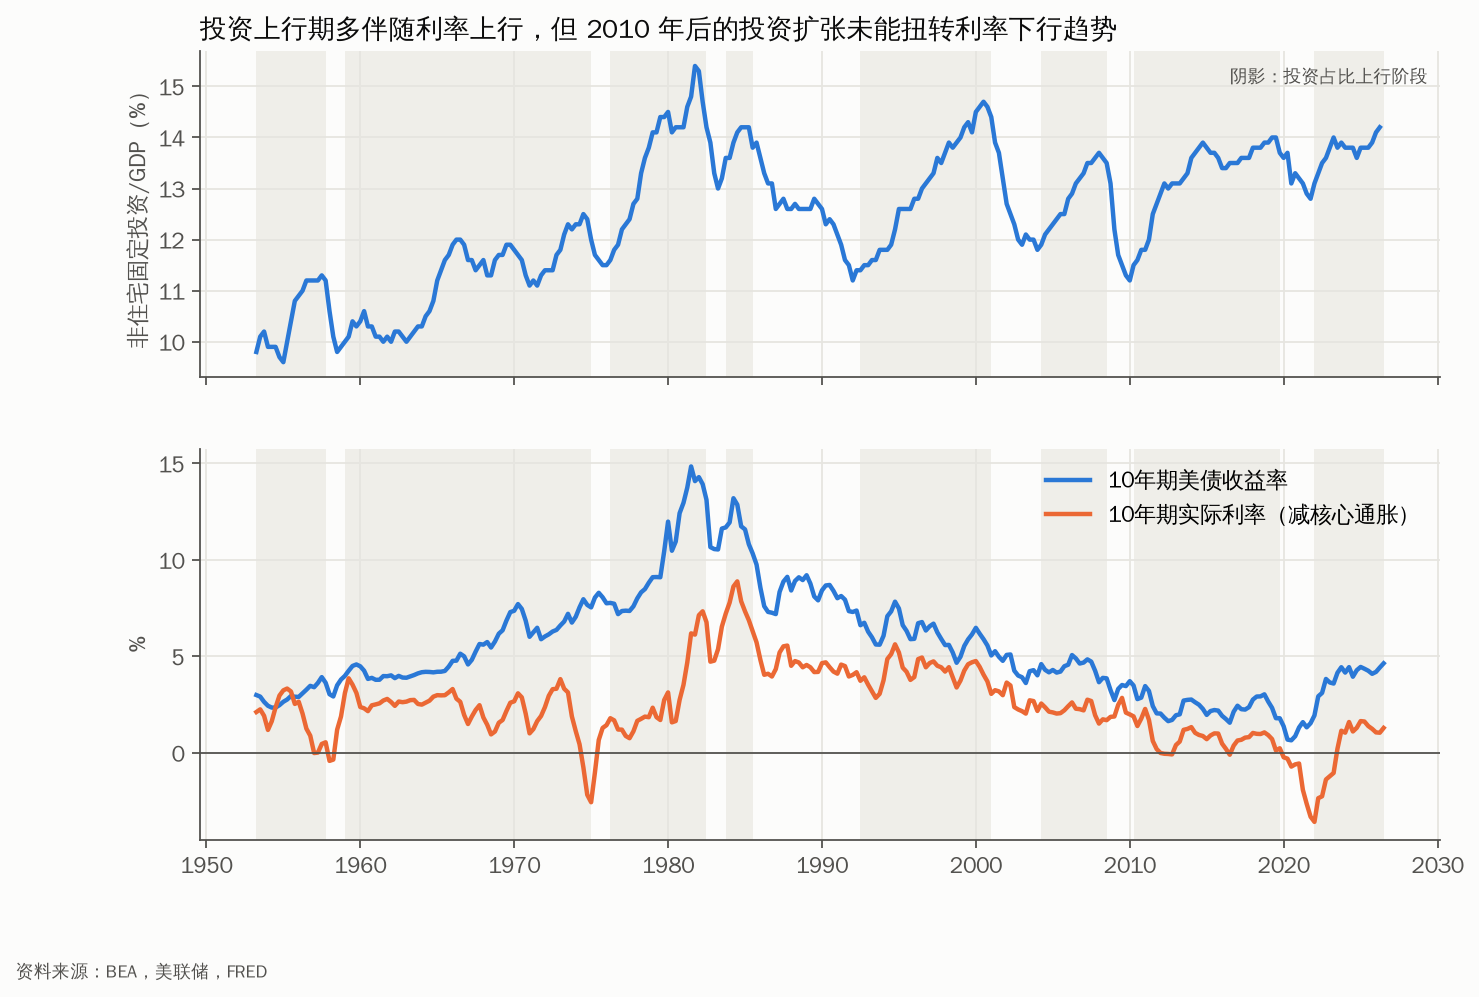
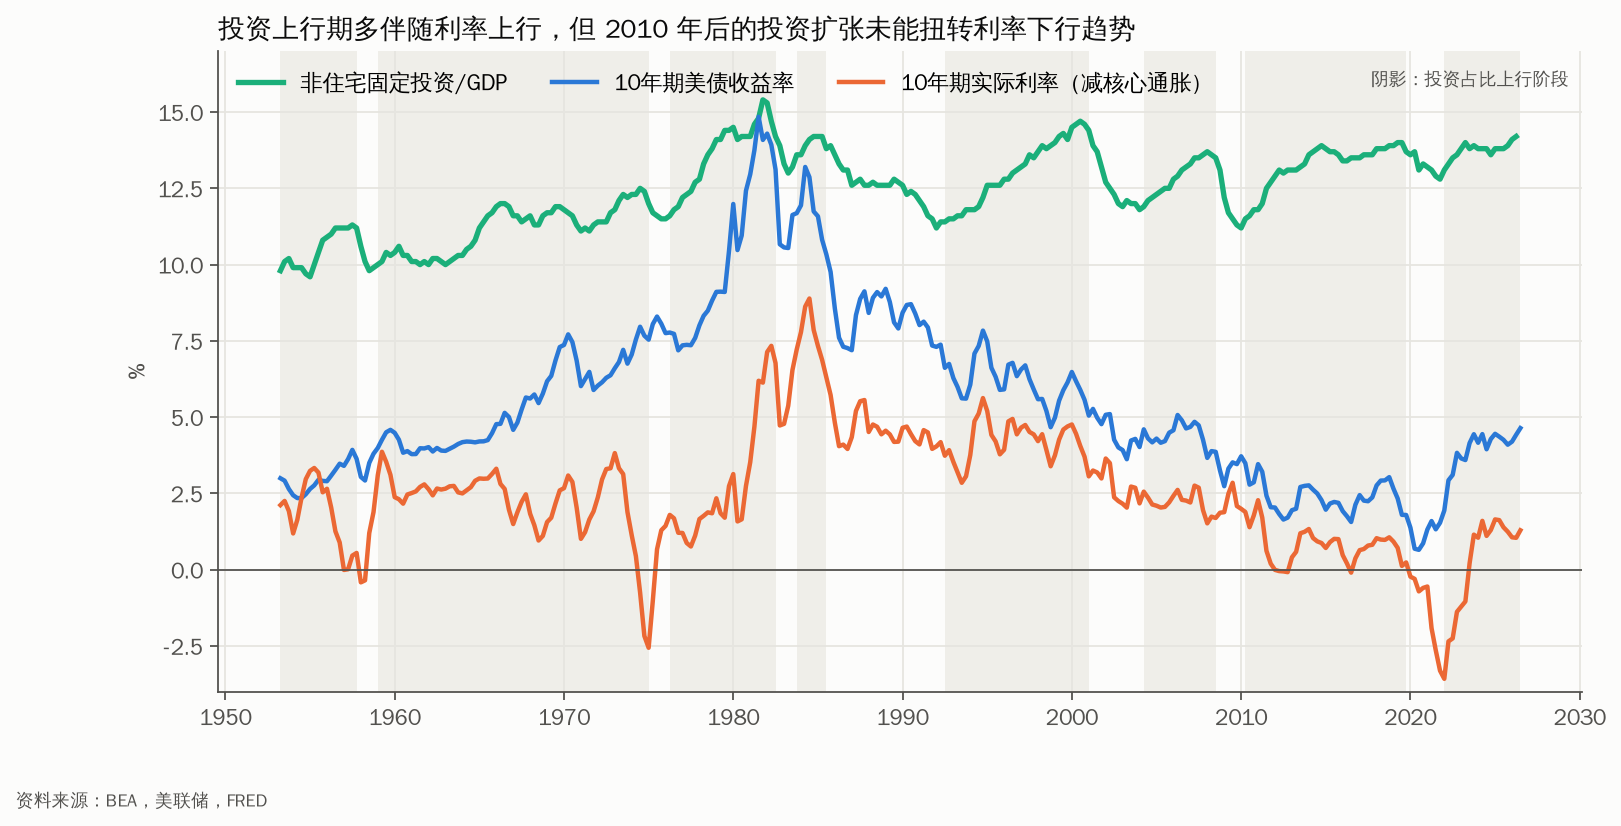
Combine investment share and yields into a single long-run chart
Claude-Session: https://claude.ai/code/session_01NArB8YBeAL7dcKm6staSdG

diff --git a/scripts/analysis_investment.py b/scripts/analysis_investment.py
@@ -56,21 +56,21 @@ ep = pd.DataFrame(rows).set_index("阶段")
 lines += ["## 1. 投资上行周期（非住宅投资/GDP 四季度均值，拐点阈值 0.8 个点）\n",
           "ACM 分解在 1961Q3 之前无数据，首段起点取 1961Q3。\n", ep.to_markdown(floatfmt=(".0f", ".1f", ".0f", ".0f", ".0f", ".0f", ".0f")), "\n"]
 
-# 图1：投资占比与利率（上下两栏，同一时间轴）
-fig, (a1, a2) = plt.subplots(2, 1, figsize=(10, 6.4), sharex=True, gridspec_kw={"height_ratios": [1, 1.2]})
+# 图1：投资占比与利率放在同一张图（三者单位均为 %，共用一根纵轴）
+fig, ax = plt.subplots(figsize=(11, 5.2))
 for a, b in ups:
-    for ax in (a1, a2):
-        ax.axvspan(a.to_timestamp(), b.to_timestamp(how="end"), color=SHADE, lw=0, zorder=0)
+    ax.axvspan(a.to_timestamp(), b.to_timestamp(how="end"), color=SHADE, lw=0, zorder=0)
 qq = q.loc["1953Q2":]
-a1.plot(to_ts(qq.index), qq["nonres_share"], color=C1)
-a1.set_title("投资上行期多伴随利率上行，但 2010 年后的投资扩张未能扭转利率下行趋势")
-a1.set_ylabel("非住宅固定投资/GDP（%）")
-a2.plot(to_ts(qq.index), qq["GS10"], color=C1, label="10年期美债收益率")
-a2.plot(to_ts(qq.index), qq["real10_ex_post"], color=C2, label="10年期实际利率（减核心通胀）")
-a2.axhline(0, color=INK2, lw=0.8)
-a2.set_ylabel("%")
-a2.legend(loc="upper right")
-a1.text(0.99, 0.95, "阴影：投资占比上行阶段", transform=a1.transAxes, ha="right", va="top", fontsize=8, color=INK2)
+x = to_ts(qq.index)
+ax.plot(x, qq["nonres_share"], color=C3, lw=2.4, label="非住宅固定投资/GDP")
+ax.plot(x, qq["GS10"], color=C1, label="10年期美债收益率")
+ax.plot(x, qq["real10_ex_post"], color=C2, label="10年期实际利率（减核心通胀）")
+ax.axhline(0, color=INK2, lw=0.8)
+ax.set_ylabel("%")
+ax.set_ylim(-4, 17)
+ax.set_title("投资上行期多伴随利率上行，但 2010 年后的投资扩张未能扭转利率下行趋势")
+ax.legend(loc="upper left", ncol=3)
+ax.text(0.99, 0.97, "阴影：投资占比上行阶段", transform=ax.transAxes, ha="right", va="top", fontsize=8, color=INK2)
 save(fig, "inv_01_share_vs_yields", "BEA，美联储，FRED")
 
 # 图2：各投资上行期的利率分解
